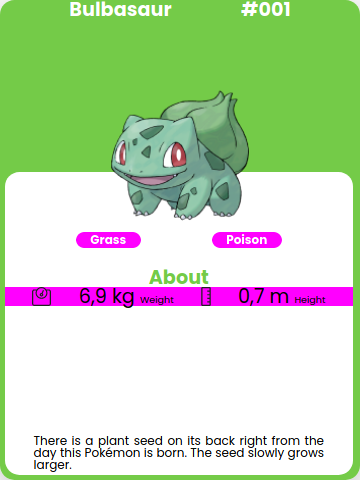
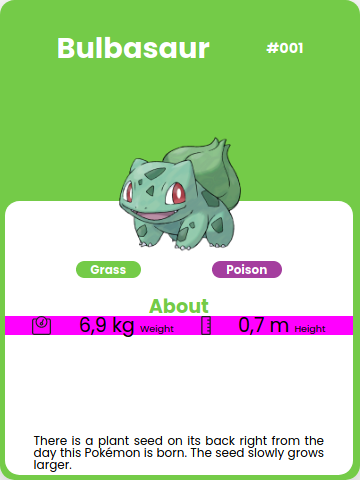
bem notation completed

diff --git a/src/App.js b/src/App.js
@@ -3,28 +3,28 @@ import './App.css';
 function App() {
   return (
     <div className="card">
-        <div className="title">
-          <h1 className="bold name">Bulbasaur</h1>
-          <h2 className="bold number">#001</h2>
+        <div className="card__header">
+          <h2 className="bold card__name">Bulbasaur</h2>
+          <span className="bold card__number">#001</span>
         </div>
-        <img className="image" src="img/bulbasaur.png" alt=""/>
+        <img className="card__image" src="img/bulbasaur.png" alt=""/>
         <div className="card__content">
-        <div class="tags">
-          <div className="bold tag">
+        <div className="card__tags">
+          <div className="bold card__tag bg-grass">
               <span>Grass</span>
           </div>
-          <div className="bold tag">
+          <div className="bold card__tag bg-poisson">
               <span>Poison</span>
           </div>
         </div>
-        <a className="bold about" href="/#">About</a>
-        <div className="measures">
+        <a className="bold card__about" href="/#">About</a>
+        <div className="card__measures">
             <img src="icon/weight_icon.svg" alt="" />
             <span className="weight">6,9 kg <span class="measure__name">Weight</span></span>
             <img src="icon/height_icon.svg" alt="" />
             <span className="height">0,7 m <span class="measure__name">Height</span></span>
         </div>
-        <div className="description">
+        <div className="card__description">
             <p>There is a plant seed on its back right from the day this Pokémon is born. The seed slowly grows larger.</p>
         </div>
         </div>

diff --git a/src/App.css b/src/App.css
@@ -13,6 +13,7 @@
   --color-background: #f7f7f7;
   --color-white: #ffffff;
   --color-grass: #74cb48;
+  --color-poisson: #a43e9e;
 }
 
 body {
@@ -38,12 +39,23 @@ body {
   box-shadow: 0 6px 20px 0 rgba(0, 0, 0, 0.19);
 }
 
-.title {
+.card__header {
+  margin-top: var(--spacing-base);
   display: flex;
   justify-content: space-evenly;
 }
 
-.image {
+.card__name {
+  font-size: 24px;
+  line-height: 32px;
+}
+
+.card__number {
+  font-size: 12px;
+  line-height: 32px;
+}
+
+.card__image {
   max-width: 150px; /* FIXME */
   margin: auto;
   position: relative;
@@ -64,27 +76,36 @@ body {
   border-radius: var(--spacing-small);
 }
 
-.tags {
+.card__tags {
   display: flex;
   justify-content: space-evenly; /*TODO: padding 8px */
   margin-bottom: var(--spacing-mini);
 }
 
-.tag {
+/*TODO: can this be extracted as .bg-$type { background-color: var(--color-$type); } ? */
+
+.bg-grass {
+    background-color: var(--color-grass);
+}
+
+.bg-poisson {
+    background-color: var(--color-poisson);
+}
+
+.card__tag {
   display: flex;
   padding: 2px var(--spacing-small);
   font-size: 10px;
-  background-color: magenta;
   border-radius: var(--spacing-tiny);
 }
 
-.about {
+.card__about {
   color: var(--color-grass);
   text-decoration: none;
   margin-bottom: var(--spacing-mini); /*FIXME: why not working? */
 }
 
-.measures {
+.card__measures {
   background-color: magenta;
   display: flex;
   justify-content: space-evenly;
@@ -94,7 +115,7 @@ body {
   font-size: 8px;
 }
 
-.description {
+.card__description {
   font-size: 10px;
   text-align: justify;
   position: absolute;
